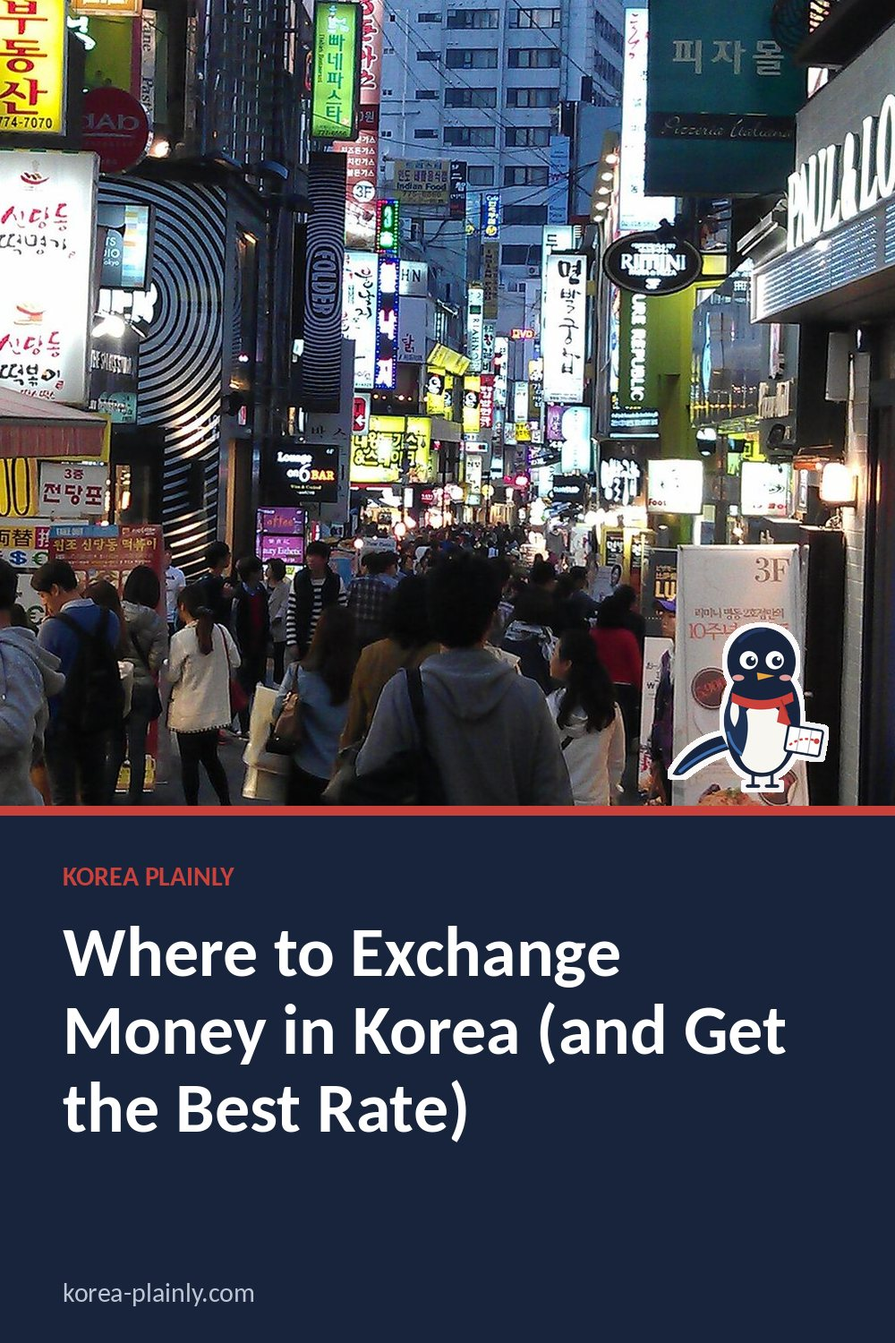
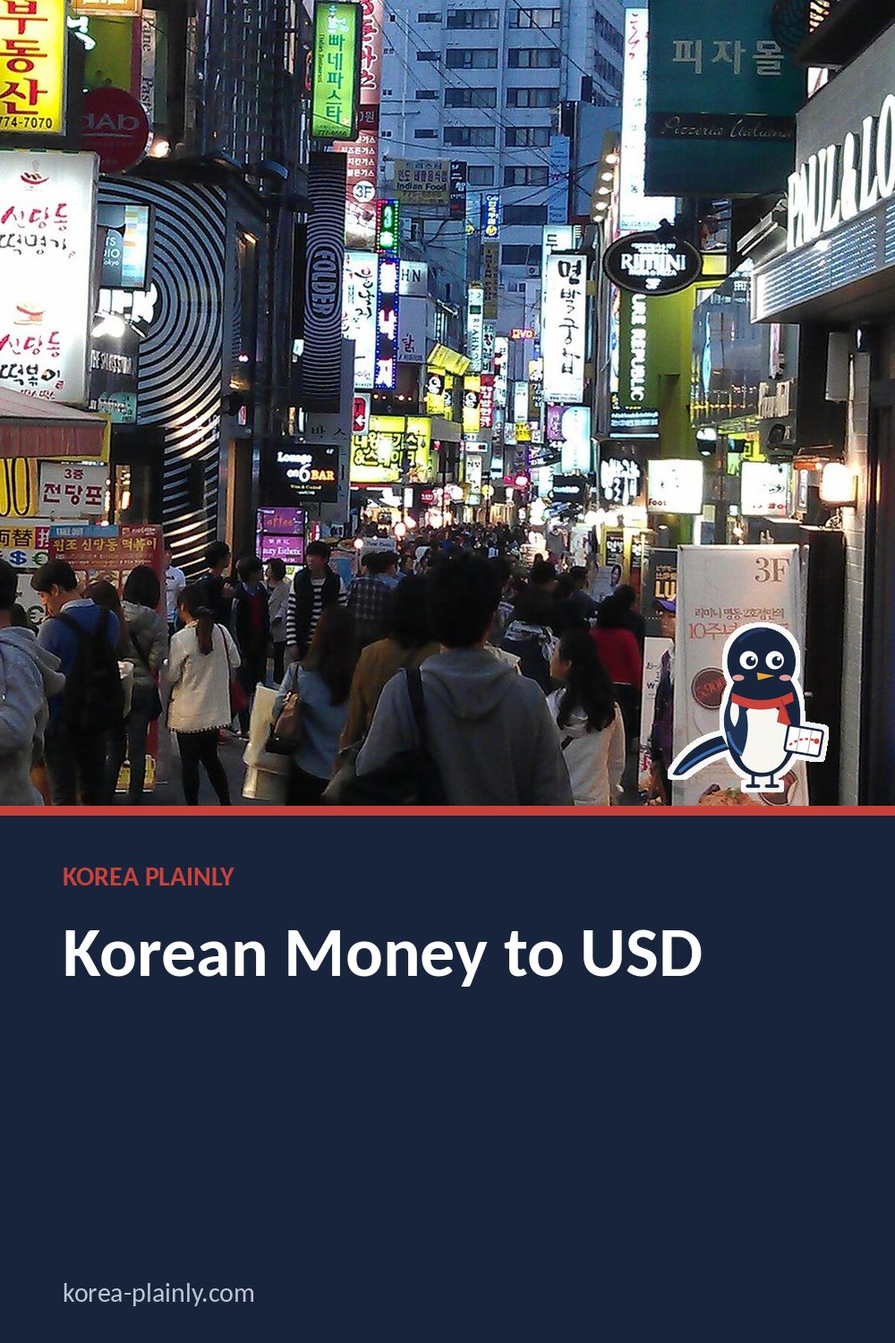
Tax refund guide: add a refund calculator (taxrefund.js) and retitle; money exchange guide: add won-to-dollars section and retitle; queue Busan/Jeju long-form retitles
Claude-Session: https://claude.ai/code/session_01QYkoY5tC8yLBep9DhsYxse

Changed region(s): [[0.062, 0.6747, 0.868, 0.8587]]

diff --git a/korea-tax-refund-guide.html b/korea-tax-refund-guide.html
@@ -11,11 +11,11 @@
 >
 
 <link rel="stylesheet" href="style.css?v=20261015-1">
-<title>Tax-Free Shopping in Korea: How Tourist Refunds Work</title>
+<title>Korea Tax Refund Calculator and Guide: How Tourist Tax-Free Shopping Works</title>
 
 <meta
   name="description"
-  content="How tourist tax refunds work in Korea in 2026: the 15,000-won minimum, instant refunds at the till, airport kiosks and how not to lose your refund."
+  content="Estimate your Korea tax refund, then see how tourist tax-free shopping works in 2026: the 15,000-won minimum, instant refunds at the till and airport kiosks."
 >
 <link
   rel="canonical"
@@ -29,12 +29,12 @@
 
 <meta
   property="og:title"
-  content="Tax-Free Shopping in Korea: How Tourist Refunds Work"
+  content="Korea Tax Refund Calculator and Guide: How Tourist Tax-Free Shopping Works"
 >
 
 <meta
   property="og:description"
-  content="How tourist tax refunds work in Korea in 2026: the 15,000-won minimum, instant refunds at the till, airport kiosks and how not to lose your refund."
+  content="Estimate your Korea tax refund, then see how tourist tax-free shopping works in 2026: the 15,000-won minimum, instant refunds at the till and airport kiosks."
 >
 
 <meta
@@ -59,12 +59,12 @@
 
 <meta
   name="twitter:title"
-  content="Tax-Free Shopping in Korea: How Tourist Refunds Work"
+  content="Korea Tax Refund Calculator and Guide: How Tourist Tax-Free Shopping Works"
 >
 
 <meta
   name="twitter:description"
-  content="How tourist tax refunds work in Korea in 2026: the 15,000-won minimum, instant refunds at the till, airport kiosks and how not to lose your refund."
+  content="Estimate your Korea tax refund, then see how tourist tax-free shopping works in 2026: the 15,000-won minimum, instant refunds at the till and airport kiosks."
 >
 
 <meta
@@ -247,9 +247,9 @@ footer {
 <link rel="stylesheet" href="article.css?v=3">
 <link rel="stylesheet" href="https://fonts.googleapis.com/css2?family=DM+Sans:wght@400;500;600;700&family=Playfair+Display:ital,wght@0,600;1,600&display=swap">
 <link rel="icon" href="/favicon.svg" type="image/svg+xml">
-<script type="application/ld+json" id="kp-faq-ld">{"@context": "https://schema.org", "@type": "FAQPage", "mainEntity": [{"@type": "Question", "name": "What is the minimum purchase for a tax refund in Korea?", "acceptedAnswer": {"@type": "Answer", "text": "15,000 won in a single transaction at a participating shop."}}, {"@type": "Question", "name": "Can I get the tax refund immediately?", "acceptedAnswer": {"@type": "Answer", "text": "Yes, at shops offering immediate refunds: show your passport and pay the price without the tax, up to 1 million won per purchase and 5 million won per trip."}}, {"@type": "Question", "name": "Do I need my passport for a tax refund?", "acceptedAnswer": {"@type": "Answer", "text": "Yes. You need your physical passport at the shop and at the airport."}}]}</script>
-<script type="application/ld+json" id="kp-article-ld">{"@context": "https://schema.org", "@type": "Article", "headline": "Tax-Free Shopping in Korea: How Tourist Refunds Work", "description": "How tourist tax refunds work in Korea in 2026: the 15,000-won minimum, instant refunds at the till, airport kiosks and how not to lose your refund.", "image": ["https://korea-plainly.com/photo-korea-tax-refund-guide.jpg"], "datePublished": "2026-10-13", "dateModified": "2026-10-17", "author": {"@type": "Person", "name": "Jungsuk Kim", "url": "https://korea-plainly.com/about.html#author"}, "publisher": {"@type": "Organization", "name": "Korea Plainly", "url": "https://korea-plainly.com/"}, "mainEntityOfPage": "https://korea-plainly.com/korea-tax-refund-guide.html"}</script>
-<script type="application/ld+json" id="kp-breadcrumb-ld">{"@context": "https://schema.org", "@type": "BreadcrumbList", "itemListElement": [{"@type": "ListItem", "position": 1, "name": "Home", "item": "https://korea-plainly.com/"}, {"@type": "ListItem", "position": 2, "name": "Guides", "item": "https://korea-plainly.com/guides.html"}, {"@type": "ListItem", "position": 3, "name": "Money", "item": "https://korea-plainly.com/guides.html?category=money"}, {"@type": "ListItem", "position": 4, "name": "Tax-Free Shopping in Korea: How Tourist Refunds Work", "item": "https://korea-plainly.com/korea-tax-refund-guide.html"}]}</script>
+<script type="application/ld+json" id="kp-faq-ld">{"@context": "https://schema.org", "@type": "FAQPage", "mainEntity": [{"@type": "Question", "name": "What is the minimum purchase for a tax refund in Korea?", "acceptedAnswer": {"@type": "Answer", "text": "15,000 won in a single transaction at a participating shop."}}, {"@type": "Question", "name": "How much tax refund will I get in Korea?", "acceptedAnswer": {"@type": "Answer", "text": "Usually about 3% to 8% of the price, more on bigger receipts. For example, a 100,000-won receipt typically gets back around 6,000 to 7,000 won. The VAT in the price is one eleventh, but the refund company keeps a fee. Use the calculator for an estimate; your refund receipt shows the exact amount."}}, {"@type": "Question", "name": "Can I get the tax refund immediately?", "acceptedAnswer": {"@type": "Answer", "text": "Yes, at shops offering immediate refunds: show your passport and pay the reduced price, for purchases under 1 million won each and up to 5 million won per trip."}}, {"@type": "Question", "name": "Do I need my passport for a tax refund?", "acceptedAnswer": {"@type": "Answer", "text": "Yes. You need your physical passport at the shop and at the airport."}}]}</script>
+<script type="application/ld+json" id="kp-article-ld">{"@context": "https://schema.org", "@type": "Article", "headline": "Korea Tax Refund Calculator and Guide: How Tourist Tax-Free Shopping Works", "description": "Estimate your Korea tax refund, then see how tourist tax-free shopping works in 2026: the 15,000-won minimum, instant refunds at the till and airport kiosks.", "image": ["https://korea-plainly.com/photo-korea-tax-refund-guide.jpg"], "datePublished": "2026-10-13", "dateModified": "2026-10-23", "author": {"@type": "Person", "name": "Jungsuk Kim", "url": "https://korea-plainly.com/about.html#author"}, "publisher": {"@type": "Organization", "name": "Korea Plainly", "url": "https://korea-plainly.com/"}, "mainEntityOfPage": "https://korea-plainly.com/korea-tax-refund-guide.html"}</script>
+<script type="application/ld+json" id="kp-breadcrumb-ld">{"@context": "https://schema.org", "@type": "BreadcrumbList", "itemListElement": [{"@type": "ListItem", "position": 1, "name": "Home", "item": "https://korea-plainly.com/"}, {"@type": "ListItem", "position": 2, "name": "Guides", "item": "https://korea-plainly.com/guides.html"}, {"@type": "ListItem", "position": 3, "name": "Money", "item": "https://korea-plainly.com/guides.html?category=money"}, {"@type": "ListItem", "position": 4, "name": "Korea Tax Refund Calculator and Guide: How Tourist Tax-Free Shopping Works", "item": "https://korea-plainly.com/korea-tax-refund-guide.html"}]}</script>
 <meta property="article:published_time" content="2026-10-13">
 </head>
 
@@ -274,18 +274,32 @@ footer {
 
 <main>
 
+<style>
+.bg-box{border:1px solid rgba(20,28,42,.12);border-radius:16px;background:#fffdf8;padding:20px;margin:18px 0 30px}
+.bg-form{display:grid;grid-template-columns:repeat(2,1fr);gap:14px}
+.bg-form label{display:flex;flex-direction:column;gap:5px;font-size:14px;font-weight:600;color:#17243c;min-width:0}
+.bg-form input,.bg-form select{width:100%;max-width:100%;box-sizing:border-box;font:inherit;font-size:16px;padding:9px 10px;border:1px solid rgba(20,28,42,.2);border-radius:10px;background:#fff}
+#tr-list{display:contents}.tr-add{justify-self:start;align-self:end;font:inherit;font-size:15px;font-weight:700;padding:9px 14px;border:1px solid #17243c;border-radius:10px;background:#fff;color:#17243c;cursor:pointer}
+#tr-out table{width:100%;border-collapse:collapse;margin:18px 0 6px;font-size:15px}
+#tr-out td{padding:8px 4px;border-bottom:1px solid rgba(20,28,42,.08);vertical-align:top}#tr-out td:last-child{text-align:right}
+#tr-out small{font-size:13px;color:#8a4b2d}
+#tr-out tr.tot td{font-weight:800;font-size:17px;color:#17243c;border-bottom:2px solid #17243c}
+.bg-day{font-size:14px;color:#5b6472}
+@media(max-width:600px){.bg-form{grid-template-columns:1fr}}
+</style>
+
 <nav class="kp-crumbs" data-kp="crumbs" aria-label="Breadcrumb"><a href="index.html">Home</a> <span>›</span> <a href="guides.html">Guides</a> <span>›</span> <a href="guides.html?category=money">Money</a></nav>
 <div class="eyebrow">
 MONEY · SHOPPING
 </div>
 
 <h1>
-Tax-Free Shopping in Korea: How Tourist Refunds Work
+Korea Tax Refund Calculator and Guide: How Tourist Tax-Free Shopping Works
 </h1>
-<p class="kp-date" data-kp="date">By <a href="about.html#author">Jungsuk Kim</a>, Korea Plainly · Published <time datetime="2026-10-13">13 October 2026</time> · Updated <time datetime="2026-10-17">17 October 2026</time></p>
+<p class="kp-date" data-kp="date">By <a href="about.html#author">Jungsuk Kim</a>, Korea Plainly · Published <time datetime="2026-10-13">13 October 2026</time> · Updated <time datetime="2026-10-23">23 October 2026</time></p>
 
 <p class="dek">
-How tourist tax refunds work in Korea in 2026: the 15,000-won minimum, instant refunds at the till, airport kiosks and how not to lose your refund.
+Estimate your Korea tax refund, then see how tourist tax-free shopping works in 2026: the 15,000-won minimum, instant refunds at the till and airport kiosks.
 </p>
 
 <img
@@ -299,7 +313,19 @@ How tourist tax refunds work in Korea in 2026: the 15,000-won minimum, instant r
 
 <p>Korea charges 10% VAT on most goods, and visitors can get part of it back on purchases they take home. It works at thousands of shops, from department stores and cosmetics chains to fashion boutiques, and in many places the refund comes straight off the price at the till. Here is how it works in 2026, what you need, and how to avoid losing your refund at the airport.</p>
 
-<nav class="kp-toc" data-kp="toc" aria-label="On this page"><p>On this page</p><ol><li><a href="#who-can-claim-a-tax-refund">Who can claim a tax refund?</a></li><li><a href="#what-qualifies">What qualifies</a></li><li><a href="#option-1-an-instant-refund-at-the-shop">Option 1: an instant refund at the shop</a></li><li><a href="#option-2-claim-at-the-airport">Option 2: claim at the airport</a></li><li><a href="#tips-to-make-sure-you-get-your-money-back">Tips to make sure you get your money back</a></li><li><a href="#where-tax-free-shopping-is-easiest">Where tax-free shopping is easiest</a></li><li><a href="#faq">FAQ</a></li></ol></nav>
+<nav class="kp-toc" data-kp="toc" aria-label="On this page"><p>On this page</p><ol><li><a href="#tax-refund-calculator">Tax refund calculator</a></li><li><a href="#who-can-claim-a-tax-refund">Who can claim a tax refund?</a></li><li><a href="#what-qualifies">What qualifies</a></li><li><a href="#option-1-an-instant-refund-at-the-shop">Option 1: an instant refund at the shop</a></li><li><a href="#option-2-claim-at-the-airport">Option 2: claim at the airport</a></li><li><a href="#tips-to-make-sure-you-get-your-money-back">Tips to make sure you get your money back</a></li><li><a href="#where-tax-free-shopping-is-easiest">Where tax-free shopping is easiest</a></li><li><a href="#faq">FAQ</a></li></ol></nav>
+<h2 id="tax-refund-calculator">Tax refund calculator</h2>
+<p>Type the total on each receipt in won (one receipt per shop visit) and choose how you will claim. The calculator shows roughly how much comes back. Korean prices include 10% VAT, which is one eleventh of the price, but the refund companies keep a fee, so you get back less than that.</p>
+<div class="bg-box" id="kp-taxrefund">
+<div class="bg-form">
+<label>How you will claim <select id="tr-way"><option value="instant" selected>Instant refund at the shop</option><option value="airport">Airport kiosk or downtown refund counter</option></select></label>
+<div id="tr-list"></div>
+<button type="button" class="tr-add" id="tr-add">+ Add another receipt</button>
+</div>
+<div id="tr-out" aria-live="polite"><p class="bg-day">The calculator needs JavaScript. As a rule of thumb, expect about 3% to 8% of the price back.</p></div>
+</div>
+<p>The bands are approximate and differ a little between refund companies, so treat the result as an estimate: the receipt from the shop or refund operator shows the exact amount.</p>
+
 <h2 id="who-can-claim-a-tax-refund">Who can claim a tax refund?</h2>
 <p>Foreign visitors staying in Korea for less than six months can claim. Some overseas Koreans who live abroad can also claim. Residents of Korea, including foreigners with a residence card, can't. You must take the goods out of the country, unused, within three months of buying them.</p>
 
@@ -309,7 +335,7 @@ How tourist tax refunds work in Korea in 2026: the 15,000-won minimum, instant r
 <li>The shop must take part in the scheme. Look for a "Tax Free" or "Tax Refund" sign at the door or the till, or ask.</li>
 <li>Most goods qualify. Services, such as hotel stays and restaurant meals, don't. Cosmetic surgery and aesthetic procedures are no longer eligible from 2026.</li>
 </ul>
-<p>You won't get the full 10% back. After the refund company's fee, the refund is usually somewhere around 4% to 7% of the price, rising with the amount you spend.</p>
+<p>You won't get the full 10% back. After the refund company's fee, the refund is usually somewhere around 3% to 8% of the price, rising with the amount you spend. Try the <a href="#tax-refund-calculator">calculator above</a> with your own receipts.</p>
 
 <h2 id="option-1-an-instant-refund-at-the-shop">Option 1: an instant refund at the shop</h2>
 <p>Many shops offer an <strong>immediate tax refund</strong>: you pay the price without the tax there and then. It is the easiest option.</p>
@@ -318,13 +344,13 @@ How tourist tax refunds work in Korea in 2026: the 15,000-won minimum, instant r
 <li>Pay the reduced price.</li>
 <li>Keep the receipt and the goods unused until you leave Korea.</li>
 </ol>
-<p>Instant refunds are capped: up to <strong>1 million won per purchase</strong> and <strong>5 million won in total</strong> per trip. Above that, the shop gives you refund paperwork to claim at the airport instead. Your passport records the instant refunds, and customs may check the goods when you leave.</p>
+<p>Instant refunds are capped: purchases <strong>under 1 million won each</strong>, and <strong>5 million won in total</strong> per trip. Above that, the shop gives you refund paperwork to claim at the airport instead. Your passport records the instant refunds, and customs may check the goods when you leave.</p>
 
 <h2 id="option-2-claim-at-the-airport">Option 2: claim at the airport</h2>
 <p>If the shop gave you a refund receipt instead, claim before you leave the country. At Incheon and other international airports:</p>
 <ol>
 <li><strong>Before checking in your bags</strong>, go to a tax refund kiosk in the departure hall. Scan your passport and receipts.</li>
-<li>If the kiosk asks for an inspection, show the goods to customs at the counter nearby. This is why you should do it before checking your luggage.</li>
+<li>If the kiosk asks for an inspection, show the goods to customs at the counter nearby. Large refunds (at the time of writing, roughly 75,000 won or more back on one receipt) always need this check. This is why you should do it before checking your luggage.</li>
 <li>Collect the refund to your card, or as cash at the refund desk after passport control, depending on the operator and the screen's instructions.</li>
 </ol>
 <p>Allow extra time, especially at busy times of the day, as queues at kiosks and customs can be long. Some large shopping areas in Seoul also have refund counters where you can claim before you go to the airport; you still need to confirm the export when you leave.</p>
@@ -339,15 +365,17 @@ How tourist tax refunds work in Korea in 2026: the 15,000-won minimum, instant r
 </ul>
 
 <h2 id="where-tax-free-shopping-is-easiest">Where tax-free shopping is easiest</h2>
-<p>Department stores, duty-free shops, cosmetics chains and big shopping streets are used to visitors and handle refunds quickly. <a href="seoul-shopping-myeongdong-shopping-street.html">Myeongdong</a> in Seoul is full of shops offering instant refunds, including the big beauty chains (see our <a href="olive-young-korea-guide.html">Olive Young guide</a>), and outlets such as <a href="incheon-shopping-hyundai-premium-outlets-songdo.html">Hyundai Premium Outlets Songdo</a> do too. Traditional markets and small independent shops often don't take part. To plan your spending, see our <a href="korea-travel-budget.html">daily budget guide for Korea</a>.</p>
+<p>Department stores, duty-free shops, cosmetics chains and big shopping streets are used to visitors and handle refunds quickly. <a href="seoul-shopping-myeongdong-shopping-street.html">Myeongdong</a> in Seoul is full of shops offering instant refunds, including the big beauty chains (see our <a href="olive-young-korea-guide.html">Olive Young guide</a>), and outlets such as <a href="incheon-shopping-hyundai-premium-outlets-songdo.html">Hyundai Premium Outlets Songdo</a> do too. Traditional markets and small independent shops often don't take part. To plan your spending, see our <a href="korea-travel-budget.html">daily budget guide for Korea</a>. Need won first? Our guides to <a href="korea-money-exchange.html">exchanging money in Korea</a> and the <a href="wowpass-card-korea.html">WOWPASS card</a> explain the cheapest ways.</p>
 <p>Rules and limits change from time to time, so check with the shop or at the airport if anything looks different. For other money questions, see <a href="cash-cards-payments-korea.html">do you need cash in Korea?</a> and our guide to <a href="korean-atm-guide.html">using Korean ATMs</a>.</p>
 
 <section class="faq">
 <h2 id="faq">FAQ</h2>
 <h3>What is the minimum purchase for a tax refund in Korea?</h3>
 <p>15,000 won in a single transaction at a participating shop.</p>
+<h3>How much tax refund will I get in Korea?</h3>
+<p>Usually about 3% to 8% of the price, more on bigger receipts. For example, a 100,000-won receipt typically gets back around 6,000 to 7,000 won. The VAT in the price is one eleventh, but the refund company keeps a fee. Use the <a href="#tax-refund-calculator">calculator</a> for an estimate; your refund receipt shows the exact amount.</p>
 <h3>Can I get the tax refund immediately?</h3>
-<p>Yes, at shops offering immediate refunds: show your passport and pay the price without the tax, up to 1 million won per purchase and 5 million won per trip.</p>
+<p>Yes, at shops offering immediate refunds: show your passport and pay the reduced price, for purchases under 1 million won each and up to 5 million won per trip.</p>
 <h3>Do I need my passport for a tax refund?</h3>
 <p>Yes. You need your physical passport at the shop and at the airport.</p>
 </section>
@@ -373,6 +401,7 @@ How tourist tax refunds work in Korea in 2026: the 15,000-won minimum, instant r
 Korea, Made Easy for Everyone.
 
 </footer>
+<script src="taxrefund.js" defer></script>
 <script>document.querySelector('.menu').addEventListener('click',()=>document.querySelector('nav').classList.toggle('show'));</script>
 <script id="kp-nav-js">
 (function(){

diff --git a/korea-money-exchange.html b/korea-money-exchange.html
@@ -11,11 +11,11 @@
 >
 
 <link rel="stylesheet" href="style.css?v=20261015-1">
-<title>Where to Exchange Money in Korea (and Get the Best Rate)</title>
+<title>Korean Money to USD: Won Prices Explained and Where to Exchange in Korea</title>
 
 <meta
   name="description"
-  content="Exchanging money in Korea: airport vs city banks vs Myeongdong money changers, WOWPASS kiosks, which currencies get the best rates, ATMs and what to do with leftover won."
+  content="Korean money to USD made easy: how to turn won prices into dollars in your head, the notes and coins you'll use, and where to exchange money in Korea."
 >
 <link
   rel="canonical"
@@ -29,12 +29,12 @@
 
 <meta
   property="og:title"
-  content="Where to Exchange Money in Korea (and Get the Best Rate)"
+  content="Korean Money to USD: Won Prices Explained and Where to Exchange in Korea"
 >
 
 <meta
   property="og:description"
-  content="Exchanging money in Korea: airport vs city banks vs Myeongdong money changers, WOWPASS kiosks, which currencies get the best rates, ATMs and what to do with leftover won."
+  content="Korean money to USD made easy: how to turn won prices into dollars in your head, the notes and coins you'll use, and where to exchange money in Korea."
 >
 
 <meta
@@ -59,12 +59,12 @@
 
 <meta
   name="twitter:title"
-  content="Where to Exchange Money in Korea (and Get the Best Rate)"
+  content="Korean Money to USD: Won Prices Explained and Where to Exchange in Korea"
 >
 
 <meta
   name="twitter:description"
-  content="Exchanging money in Korea: airport vs city banks vs Myeongdong money changers, WOWPASS kiosks, which currencies get the best rates, ATMs and what to do with leftover won."
+  content="Korean money to USD made easy: how to turn won prices into dollars in your head, the notes and coins you'll use, and where to exchange money in Korea."
 >
 
 <meta
@@ -247,9 +247,9 @@ footer {
 <link rel="stylesheet" href="article.css?v=3">
 <link rel="stylesheet" href="https://fonts.googleapis.com/css2?family=DM+Sans:wght@400;500;600;700&family=Playfair+Display:ital,wght@0,600;1,600&display=swap">
 <link rel="icon" href="/favicon.svg" type="image/svg+xml">
-<script type="application/ld+json" id="kp-faq-ld">{"@context": "https://schema.org", "@type": "FAQPage", "mainEntity": [{"@type": "Question", "name": "Where is the best place to exchange money in Seoul?", "acceptedAnswer": {"@type": "Answer", "text": "Licensed money changers in Myeongdong usually offer the best rates for major currencies. Compare the boards outside a few shops and keep your receipt."}}, {"@type": "Question", "name": "Is it better to exchange money in Korea or at home?", "acceptedAnswer": {"@type": "Answer", "text": "Usually in Korea, at a city money changer or bank, for major currencies like US dollars, euros and yen. Airport rates are weaker, so change only a little there."}}, {"@type": "Question", "name": "Do I need cash in Korea?", "acceptedAnswer": {"@type": "Answer", "text": "Only a little. Cards are accepted almost everywhere, but cash helps at markets, street stalls and for topping up transit cards."}}]}</script>
-<script type="application/ld+json" id="kp-article-ld">{"@context": "https://schema.org", "@type": "Article", "headline": "Where to Exchange Money in Korea (and Get the Best Rate)", "description": "Exchanging money in Korea: airport vs city banks vs Myeongdong money changers, WOWPASS kiosks, which currencies get the best rates, ATMs and what to do with leftover won.", "image": ["https://korea-plainly.com/photo-korea-money-exchange.jpg"], "datePublished": "2026-10-17", "dateModified": "2026-10-17", "author": {"@type": "Person", "name": "Jungsuk Kim", "url": "https://korea-plainly.com/about.html#author"}, "publisher": {"@type": "Organization", "name": "Korea Plainly", "url": "https://korea-plainly.com/"}, "mainEntityOfPage": "https://korea-plainly.com/korea-money-exchange.html"}</script>
-<script type="application/ld+json" id="kp-breadcrumb-ld">{"@context": "https://schema.org", "@type": "BreadcrumbList", "itemListElement": [{"@type": "ListItem", "position": 1, "name": "Home", "item": "https://korea-plainly.com/"}, {"@type": "ListItem", "position": 2, "name": "Guides", "item": "https://korea-plainly.com/guides.html"}, {"@type": "ListItem", "position": 3, "name": "Money", "item": "https://korea-plainly.com/guides.html?category=money"}, {"@type": "ListItem", "position": 4, "name": "Where to Exchange Money in Korea (and Get the Best Rate)", "item": "https://korea-plainly.com/korea-money-exchange.html"}]}</script>
+<script type="application/ld+json" id="kp-faq-ld">{"@context": "https://schema.org", "@type": "FAQPage", "mainEntity": [{"@type": "Question", "name": "How much is 10,000 won in US dollars?", "acceptedAnswer": {"@type": "Answer", "text": "Somewhat less than 10 US dollars. For the exact figure, search \"USD KRW\" on Naver or Google, or check your bank app, and divide 10,000 by the number of won to one dollar. Rates change daily, so always check the live rate."}}, {"@type": "Question", "name": "Where is the best place to exchange money in Seoul?", "acceptedAnswer": {"@type": "Answer", "text": "Licensed money changers in Myeongdong usually offer the best rates for major currencies. Compare the boards outside a few shops and keep your receipt."}}, {"@type": "Question", "name": "Is it better to exchange money in Korea or at home?", "acceptedAnswer": {"@type": "Answer", "text": "Usually in Korea, at a city money changer or bank, for major currencies like US dollars, euros and yen. Airport rates are weaker, so change only a little there."}}, {"@type": "Question", "name": "Do I need cash in Korea?", "acceptedAnswer": {"@type": "Answer", "text": "Only a little. Cards are accepted almost everywhere, but cash helps at markets, street stalls and for topping up transit cards."}}]}</script>
+<script type="application/ld+json" id="kp-article-ld">{"@context": "https://schema.org", "@type": "Article", "headline": "Korean Money to USD: Won Prices Explained and Where to Exchange in Korea", "description": "Korean money to USD made easy: how to turn won prices into dollars in your head, the notes and coins you", "image": ["https://korea-plainly.com/photo-korea-money-exchange.jpg"], "datePublished": "2026-10-17", "dateModified": "2026-10-23", "author": {"@type": "Person", "name": "Jungsuk Kim", "url": "https://korea-plainly.com/about.html#author"}, "publisher": {"@type": "Organization", "name": "Korea Plainly", "url": "https://korea-plainly.com/"}, "mainEntityOfPage": "https://korea-plainly.com/korea-money-exchange.html"}</script>
+<script type="application/ld+json" id="kp-breadcrumb-ld">{"@context": "https://schema.org", "@type": "BreadcrumbList", "itemListElement": [{"@type": "ListItem", "position": 1, "name": "Home", "item": "https://korea-plainly.com/"}, {"@type": "ListItem", "position": 2, "name": "Guides", "item": "https://korea-plainly.com/guides.html"}, {"@type": "ListItem", "position": 3, "name": "Money", "item": "https://korea-plainly.com/guides.html?category=money"}, {"@type": "ListItem", "position": 4, "name": "Korean Money to USD: Won Prices Explained and Where to Exchange in Korea", "item": "https://korea-plainly.com/korea-money-exchange.html"}]}</script>
 <meta property="article:published_time" content="2026-10-17">
 </head>
 
@@ -280,12 +280,12 @@ MONEY · PRACTICAL
 </div>
 
 <h1>
-Where to Exchange Money in Korea (and Get the Best Rate)
+Korean Money to USD: Won Prices Explained and Where to Exchange in Korea
 </h1>
-<p class="kp-date" data-kp="date">By <a href="about.html#author">Jungsuk Kim</a>, Korea Plainly · Published <time datetime="2026-10-17">17 October 2026</time></p>
+<p class="kp-date" data-kp="date">By <a href="about.html#author">Jungsuk Kim</a>, Korea Plainly · Published <time datetime="2026-10-17">17 October 2026</time> · Updated <time datetime="2026-10-23">23 October 2026</time></p>
 
 <p class="dek">
-Exchanging money in Korea: airport vs city banks vs Myeongdong money changers, WOWPASS kiosks, which currencies get the best rates, ATMs and what to do with leftover won.
+Korean money to USD made easy: how to turn won prices into dollars in your head, the notes and coins you'll use, and where to exchange money in Korea.
 </p>
 
 <img
@@ -299,7 +299,7 @@ Exchanging money in Korea: airport vs city banks vs Myeongdong money changers, W
 
 <p>Korea is a very card-friendly country, so you need less cash than you might think. Still, a little Korean won is handy for street food, markets, topping up a transit card and the odd small shop. Here is where to change money, how to avoid a poor rate and what to do with what is left at the end.</p>
 
-<nav class="kp-toc" data-kp="toc" aria-label="On this page"><p>On this page</p><ol><li><a href="#the-short-answer">The short answer</a></li><li><a href="#your-options-compared">Your options compared</a></li><li><a href="#getting-a-good-rate">Getting a good rate</a></li><li><a href="#how-much-cash-do-you-need">How much cash do you need?</a></li><li><a href="#leftover-won">Leftover won</a></li><li><a href="#faq">FAQ</a></li></ol></nav>
+<nav class="kp-toc" data-kp="toc" aria-label="On this page"><p>On this page</p><ol><li><a href="#the-short-answer">The short answer</a></li><li><a href="#korean-won-to-us-dollars-quickly">Korean won to US dollars, quickly</a></li><li><a href="#your-options-compared">Your options compared</a></li><li><a href="#getting-a-good-rate">Getting a good rate</a></li><li><a href="#how-much-cash-do-you-need">How much cash do you need?</a></li><li><a href="#leftover-won">Leftover won</a></li><li><a href="#faq">FAQ</a></li></ol></nav>
 <h2 id="the-short-answer">The short answer</h2>
 <ul>
 <li>Change only a <strong>small amount at the airport</strong> if you want cash on arrival.</li>
@@ -307,6 +307,30 @@ Exchanging money in Korea: airport vs city banks vs Myeongdong money changers, W
 <li>Bring <strong>US dollars, euros, Japanese yen or Chinese yuan</strong> in clean, larger notes if you plan to exchange cash.</li>
 <li>Or skip exchange altogether and use a <strong>global ATM</strong> with a card that has low foreign fees.</li>
 </ul>
+
+<h2 id="korean-won-to-us-dollars-quickly">Korean won to US dollars, quickly</h2>
+<p>Korean prices have a lot of zeros, which makes them look bigger than they are. The money you will handle every day:</p>
+<ul>
+<li><strong>Notes:</strong> 1,000, 5,000, 10,000 and 50,000 won.</li>
+<li><strong>Coins:</strong> 10, 50, 100 and 500 won. You will mostly see 100 and 500 won coins in your change.</li>
+</ul>
+<p><strong>The quick trick:</strong> drop the last three zeros, so 15,000 won becomes "15 thousand". Then multiply by what 1,000 won is worth in dollars today. 1,000 won is worth less than one US dollar, so a price in won is always fewer dollars than the "thousands" number. For example, if 1,000 won is worth 70 cents on the day, a 15,000-won meal is 15 × 0.70, about 10.50 dollars.</p>
+<p>Exchange rates move every day, so we don't print one here. Check today's rate in your bank app, or search "USD KRW" on Naver or Google. Reading in pounds or euros? The trick is the same: search "GBP KRW" or "EUR KRW" and multiply the "thousands" number by what 1,000 won is worth in your currency.</p>
+<p>Some everyday prices, to get a feel for the numbers (approximate, 2026, and higher in tourist spots):</p>
+<style>.kp-prices{width:100%;border-collapse:collapse;margin:8px 0 22px;font-size:16px}.kp-prices th,.kp-prices td{text-align:left;padding:8px 6px;border-bottom:1px solid rgba(20,28,42,.1);vertical-align:top}.kp-prices th{border-bottom:2px solid #17243c}.kp-prices td:last-child{white-space:nowrap}</style>
+<table class="kp-prices">
+<thead><tr><th>What</th><th>About</th></tr></thead>
+<tbody>
+<tr><td>Seoul subway ride with a transit card</td><td>1,550 won</td></tr>
+<tr><td>City bus ride with a transit card</td><td>1,500 won</td></tr>
+<tr><td>Bottle of water at a convenience store</td><td>1,000 to 1,500 won</td></tr>
+<tr><td>Coffee at a café</td><td>2,000 to 6,000 won</td></tr>
+<tr><td>Convenience-store lunch box</td><td>4,000 to 7,000 won</td></tr>
+<tr><td>Simple restaurant meal</td><td>9,000 to 15,000 won</td></tr>
+<tr><td>Seoul taxi base fare</td><td>4,800 won</td></tr>
+</tbody>
+</table>
+<p>For transit, a <a href="t-money-korea-guide.html">T-money card</a> gives you the card fares above. For daily totals, see our <a href="korea-travel-budget.html">Korea travel budget</a>.</p>
 
 <h2 id="your-options-compared">Your options compared</h2>
 <h3>Airport banks</h3>
@@ -340,6 +364,8 @@ Exchanging money in Korea: airport vs city banks vs Myeongdong money changers, W
 <p>Shopping a lot? Don't forget to claim back VAT; see our <a href="korea-tax-refund-guide.html">tax refund guide</a>.</p>
 <section class="faq">
 <h2 id="faq">FAQ</h2>
+<h3>How much is 10,000 won in US dollars?</h3>
+<p>Somewhat less than 10 US dollars. For the exact figure, search "USD KRW" on Naver or Google, or check your bank app, and divide 10,000 by the number of won to one dollar. Rates change daily, so always check the live rate.</p>
 <h3>Where is the best place to exchange money in Seoul?</h3>
 <p>Licensed money changers in Myeongdong usually offer the best rates for major currencies. Compare the boards outside a few shops and keep your receipt.</p>
 <h3>Is it better to exchange money in Korea or at home?</h3>

diff --git a/taxrefund.js b/taxrefund.js
@@ -1,0 +1,66 @@
+/* Korea Plainly tax refund calculator: a rough estimate of the VAT refund a visitor gets back per receipt.
+   Korean prices include 10% VAT (1/11 of the price). Refund operators keep a fee, so visitors usually get back
+   about 3% to 8% of the price, a little more on bigger receipts. The operator's own receipt decides. */
+(function () {
+  "use strict";
+  var root = document.getElementById("kp-taxrefund"); if (!root) return;
+  var MIN = 15000;            // minimum spend per receipt (one shop, one transaction)
+  var INSTANT_MAX = 1000000;  // instant refunds at the shop: purchases under 1 million won each
+  var INSTANT_TRIP = 5000000; // ... and 5 million won of instant-refund purchases per trip
+  var CUSTOMS = 75000;        // roughly this much refund on one receipt and customs must see the goods
+  // [from won, low %, high %] of the price paid, approximate
+  var BANDS = [[15000, 3.3, 5], [30000, 5, 6.7], [100000, 6, 7], [300000, 6.5, 7.5], [1000000, 7, 8.2]];
+  var MAX_ROWS = 10;
+  function f(id) { return root.querySelector("#" + id); }
+  function won(n) { return (Math.round(n / 100) * 100).toLocaleString("en-GB") + " won"; }
+  function band(a) { var b = null; BANDS.forEach(function (x) { if (a >= x[0]) b = x; }); return b; }
+  function amounts() {
+    return Array.prototype.map.call(root.querySelectorAll(".tr-amt"), function (i) {
+      return Math.max(0, parseInt(String(i.value).replace(/[^0-9]/g, ""), 10) || 0);
+    });
+  }
+  function addRow(v) {
+    var list = f("tr-list"), n = list.children.length + 1;
+    if (n > MAX_ROWS) return;
+    var lab = document.createElement("label");
+    lab.innerHTML = "Receipt " + n + " (won) <input class='tr-amt' type='number' min='0' step='1000' inputmode='numeric'>";
+    lab.querySelector("input").value = v || "";
+    lab.querySelector("input").addEventListener("input", calc);
+    list.appendChild(lab);
+    f("tr-add").hidden = n >= MAX_ROWS;
+  }
+  function calc() {
+    var instant = f("tr-way").value === "instant";
+    var rows = "", lo = 0, hi = 0, notes = [], instantSum = 0, any = false;
+    amounts().forEach(function (a, i) {
+      if (!a) return;
+      any = true;
+      var b = band(a), name = "Receipt " + (i + 1) + " (" + won(a) + ")";
+      if (!b) { rows += "<tr><td>" + name + "</td><td>Below the 15,000-won minimum</td></tr>"; return; }
+      var l = a * b[1] / 100, h = a * b[2] / 100;
+      lo += l; hi += h;
+      var cell = won(l) + " to " + won(h);
+      if (instant) {
+        if (a >= INSTANT_MAX) { cell += "<br><small>1 million won or more: claim at the airport, not at the till</small>"; }
+        else { instantSum += a; }
+      }
+      if (h >= CUSTOMS) { cell += "<br><small>Large refund: show the goods to customs before checking in your bags</small>"; }
+      rows += "<tr><td>" + name + "</td><td>" + cell + "</td></tr>";
+    });
+    var out = f("tr-out");
+    if (!any) { out.innerHTML = "<p class='bg-day'>Enter the amount on each receipt to see an estimate.</p>"; return; }
+    var html = "<table>" + rows;
+    if (hi > 0) html += "<tr class='tot'><td>Estimated refund</td><td>" + won(lo) + " to " + won(hi) + "</td></tr>";
+    html += "</table>";
+    if (instant && instantSum > INSTANT_TRIP) notes.push("Instant refunds stop at 5 million won of purchases per trip; claim the rest at the airport.");
+    if (instant) notes.push("At the till the refund comes off the price, so you simply pay less. Bring your physical passport.");
+    else notes.push("At an airport kiosk or downtown refund counter, the refund goes to your card or is paid in cash, depending on the operator.");
+    notes.push("This is an estimate. The shop or refund operator's receipt shows the exact amount.");
+    html += notes.map(function (t) { return "<p class='bg-day'>" + t + "</p>"; }).join("");
+    out.innerHTML = html;
+  }
+  f("tr-add").addEventListener("click", function () { addRow(""); var a = root.querySelectorAll(".tr-amt"); a[a.length - 1].focus(); });
+  f("tr-way").addEventListener("change", calc);
+  addRow("50000"); addRow("");
+  calc();
+})();

diff --git a/sokcho-shopping-sokcho-tourist-fishery-market.html b/sokcho-shopping-sokcho-tourist-fishery-market.html
@@ -104,7 +104,7 @@ a{color:#b73535}
 <!-- /kp-kkachi -->
 <section class="related-guides">
 <h2>Related guides</h2>
-<div class="kp-related"><a href="jeju-shopping-jeju-traditional-five-day-market.html"><img src="regional-jeju-shopping-jeju-traditional-five-day-market.jpg" alt="" loading="lazy" srcset="img/regional-jeju-shopping-jeju-traditional-five-day-market.b1b17c9a.w480.webp 480w, img/regional-jeju-shopping-jeju-traditional-five-day-market.b1b17c9a.w800.webp 800w, img/regional-jeju-shopping-jeju-traditional-five-day-market.b1b17c9a.w1200.webp 1200w, regional-jeju-shopping-jeju-traditional-five-day-market.jpg 1600w" sizes="(max-width: 600px) 100vw, (max-width: 1000px) 50vw, 400px" decoding="async"><span>Jeju Traditional Five-Day Market: A Lively Shopping Stop in Jeju City</span></a><a href="korea-tax-refund-guide.html"><img src="photo-korea-tax-refund-guide.jpg" alt="" loading="lazy" srcset="img/photo-korea-tax-refund-guide.b0153447.w480.webp 480w, img/photo-korea-tax-refund-guide.b0153447.w800.webp 800w, img/photo-korea-tax-refund-guide.b0153447.w1200.webp 1200w, photo-korea-tax-refund-guide.jpg 1600w" sizes="(max-width: 600px) 100vw, (max-width: 1000px) 50vw, 400px" decoding="async"><span>Tax-Free Shopping in Korea: How Tourist Refunds Work</span></a><a href="sokcho-leisure-biseondae-peak.html"><img src="regional-sokcho-leisure-biseondae-peak.jpg" alt="" loading="lazy" srcset="img/regional-sokcho-leisure-biseondae-peak.1d2a93e8.w480.webp 480w, img/regional-sokcho-leisure-biseondae-peak.1d2a93e8.w800.webp 800w, img/regional-sokcho-leisure-biseondae-peak.1d2a93e8.w1200.webp 1200w, regional-sokcho-leisure-biseondae-peak.jpg 1600w" sizes="(max-width: 600px) 100vw, (max-width: 1000px) 50vw, 400px" decoding="async"><span>Biseondae Peak: Seoraksan’s Scenic Rock Terrace</span></a></div>
+<div class="kp-related"><a href="jeju-shopping-jeju-traditional-five-day-market.html"><img src="regional-jeju-shopping-jeju-traditional-five-day-market.jpg" alt="" loading="lazy" srcset="img/regional-jeju-shopping-jeju-traditional-five-day-market.b1b17c9a.w480.webp 480w, img/regional-jeju-shopping-jeju-traditional-five-day-market.b1b17c9a.w800.webp 800w, img/regional-jeju-shopping-jeju-traditional-five-day-market.b1b17c9a.w1200.webp 1200w, regional-jeju-shopping-jeju-traditional-five-day-market.jpg 1600w" sizes="(max-width: 600px) 100vw, (max-width: 1000px) 50vw, 400px" decoding="async"><span>Jeju Traditional Five-Day Market: A Lively Shopping Stop in Jeju City</span></a><a href="korea-tax-refund-guide.html"><img src="photo-korea-tax-refund-guide.jpg" alt="" loading="lazy" srcset="img/photo-korea-tax-refund-guide.b0153447.w480.webp 480w, img/photo-korea-tax-refund-guide.b0153447.w800.webp 800w, img/photo-korea-tax-refund-guide.b0153447.w1200.webp 1200w, photo-korea-tax-refund-guide.jpg 1600w" sizes="(max-width: 600px) 100vw, (max-width: 1000px) 50vw, 400px" decoding="async"><span>Korea Tax Refund Calculator and Guide: How Tourist Tax-Free Shopping Works</span></a><a href="sokcho-leisure-biseondae-peak.html"><img src="regional-sokcho-leisure-biseondae-peak.jpg" alt="" loading="lazy" srcset="img/regional-sokcho-leisure-biseondae-peak.1d2a93e8.w480.webp 480w, img/regional-sokcho-leisure-biseondae-peak.1d2a93e8.w800.webp 800w, img/regional-sokcho-leisure-biseondae-peak.1d2a93e8.w1200.webp 1200w, regional-sokcho-leisure-biseondae-peak.jpg 1600w" sizes="(max-width: 600px) 100vw, (max-width: 1000px) 50vw, 400px" decoding="async"><span>Biseondae Peak: Seoraksan’s Scenic Rock Terrace</span></a></div>
 </section>
 
 </article></main>

diff --git a/guides.html b/guides.html
@@ -628,11 +628,11 @@ MONEY · NEW
 </small>
 
 <h2>
-Tax-Free Shopping in Korea: How Tourist Refunds Work
+Korea Tax Refund Calculator and Guide: How Tourist Tax-Free Shopping Works
 </h2>
 
 <p>
-How tourist tax refunds work in Korea in 2026: the 15,000-won minimum, instant refunds at the till, airport kiosks and how not to lose your refund.
+Estimate your Korea tax refund, then see how tourist tax-free shopping works in 2026: the 15,000-won minimum, instant refunds at the till and airport kiosks.
 </p>
 
 <span class="guide-arrow">
@@ -2082,11 +2082,11 @@ MONEY · NEW
 </small>
 
 <h2>
-Where to Exchange Money in Korea (and Get the Best Rate)
+Korean Money to USD: Won Prices Explained and Where to Exchange in Korea
 </h2>
 
 <p>
-Exchanging money in Korea: airport vs city banks vs Myeongdong money changers, WOWPASS kiosks, which currencies get the best rates, ATMs and what to do with leftover won.
+Korean money to USD made easy: how to turn won prices into dollars in your head, the notes and coins you'll use, and where to exchange money in Korea.
 </p>
 
 <span class="guide-arrow">
